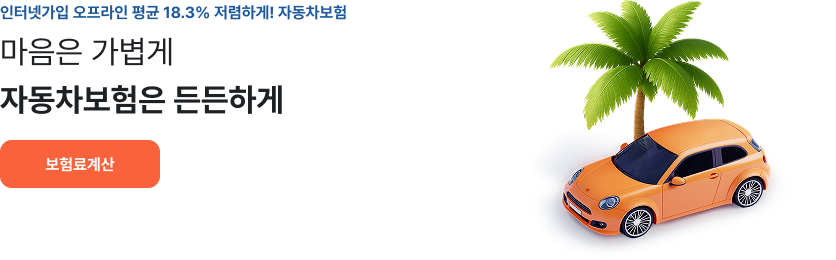
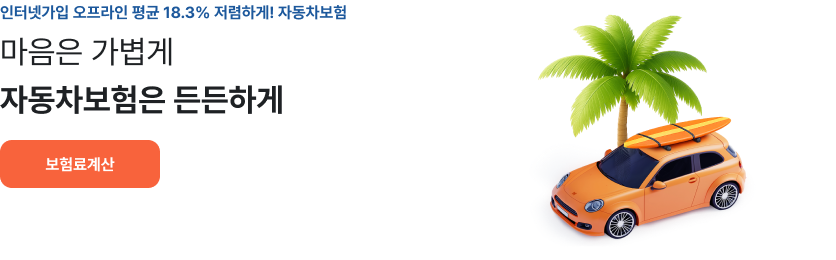
main 관련 수정

Changed region(s): [[0.622, 0.0, 0.933, 0.9538]]

diff --git a/src/html/HO/HO00/PHOHO0010001000000.html b/src/html/HO/HO00/PHOHO0010001000000.html
@@ -255,12 +255,13 @@
 							<div class="main_prd">
 								<h3 class="main_prd_title">어린이/태아</h3>
 								<div class="main_prd_cont">
+									<!-- s: 25-08-11 수정 -->
 									<a href="#" class="mpc_item mpc_item_ty1 mit1_ic3">
 										<div class="mpc_item_cont">
-											<strong class="title">굿앤굿어린이보험</strong>
+											<strong class="title">굿앤굿어린이종합보험Q(태아)</strong>
 											<span class="text">
-												10명 중 6명이 가입한 어린이보험<br>
-												우리아이 보험은 역시 굿앤굿!
+												출생부터 안심되는 우리 아이 첫! 보험<br>
+												엄마의 임신, 출산도 함께 보장
 											</span>
 											<div class="fb_c">
 												<span class="hd_btn hd_btn_ty_2 hd_btn_s_4">
@@ -269,12 +270,19 @@
 											</div>
 										</div>
 									</a>
+									<a href="#" class="mpc_item mpc_item_ty2 mit2_ic17">
+										<div class="mpc_item_cont">
+											<strong class="title">굿앤굿어린이종합보험Q(0~15세)</strong>
+											<span class="text">우리 아이 성장단계별 맞춤 보장</span>
+										</div>
+									</a>
 									<a href="#" class="mpc_item mpc_item_ty2 mit2_ic6">
 										<div class="mpc_item_cont">
 											<strong class="title">어린이 치아보험</strong>
 											<span class="text">유치, 영구치 치과 치료비 보장</span>
 										</div>
 									</a>
+									<!-- e: 25-08-11 수정 -->
 								</div>
 							</div>
 						</div>

diff --git a/src/css/contents/main_pc.scss b/src/css/contents/main_pc.scss
@@ -333,7 +333,6 @@
 	// 메인 Visual
 	.main_visual_box {
 		min-height: 260px;
-		background: url(../images/content/main/img_main_car_kv.png) no-repeat right top / auto 260px;
 		.title_view_wrap {
 			.page_title {
 				.p_info {
@@ -479,6 +478,12 @@
 .mcont_items_wrap {
 	.mcont_items {
 		padding-top: var(--gap-11);
+
+		.acd_item_ty5 {
+			.acd_head_title {
+				background-size: 24px auto;
+			}
+		}
 	}
 }
 
@@ -545,7 +550,7 @@
 				background-position: right 36px center;
 				border: var(--border-width-static-regular) solid var(--color-border-inverse);
 				background-color: var(--color-action-secondary-fill);
-				@for $i from 1 through 16 {
+				@for $i from 1 through 17 {
 					&.mit2_ic#{$i} {
 						background-image: url(../images/content/main/icon_mit2_ic#{$i}.png);
 					}
@@ -754,7 +759,8 @@
 		padding: var(--padding-6) var(--padding-5);
 
 		.item {
-			display: block;
+			display: flex;
+			align-items: center;
 			width: 100%;
 			height: 40px;
 			padding: var(--padding-3) var(--padding-5) var(--padding-3) 52px;

diff --git a/src/index2.html b/src/index2.html
@@ -804,7 +804,11 @@
 						<td class="complete">ing</td>
 						<td class="bigo"></td>
 						<td class="bigo2"></td>
-						<td class="note"></td>
+						<td class="note">
+							<ul class="m-list">
+								<li>25-08-11</li>
+							</ul>
+						</td>
 					</tr>
 					<tr class="del">
 						<td class="idx_dept1">홈</td>
